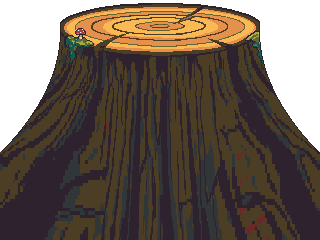
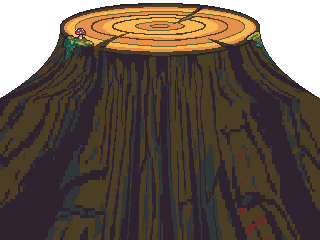
Art: keep the stump round - elliptical top ends, curved flare
Sean: the sides were too straight and lost the stump's circular look.
make_stump.py carves the top's ends onto a true ellipse and starts the
side flare at the ellipse's widest row with a stronger curve, so the round
top flows into a curving trunk base.

diff --git a/art/hand/make_stump.py b/art/hand/make_stump.py
@@ -24,8 +24,11 @@ OUT_H = 240
 BAND = (100, 144)  # lower trunk rows stretched down to OUT_H
 
 SIDE = 60  # px added each side; the screen shows ~108 game px either side of centre
-FLARE_Y0 = 30  # first row below the top rim where the sides start to slope out
-FLARE_K = 0.004  # edge moves out FLARE_K * (y - FLARE_Y0)^2 px
+# Top ellipse (source px): centre row, half-height, half-width. Its ends are carved round,
+# and the sides flare out from its widest row so the stump keeps its round look (Sean).
+TOP_CY, TOP_B, TOP_A = 27, 25, 100
+FLARE_Y0 = TOP_CY  # the flare starts at the ellipse's widest row (vertical tangent)
+FLARE_K = 0.012  # edge moves out FLARE_K * (y - FLARE_Y0)^2 px
 EDGE_BAND = 40  # outer px of each row stretched outward
 CRACK_BOX = (28, 28, 62, 62)  # where the crack runs off the top onto the bark
 CRACK = (0x96, 0x6C, 0x6C)
@@ -46,6 +49,18 @@ def fix_crack(img):
             else:
                 continue
             break
+
+
+def carve_top(img):
+    """Round the top's ends: clear pixels outside the top ellipse above its widest row."""
+    px = img.load()
+    cx = (img.width - 1) / 2
+    for y in range(TOP_CY):
+        t = (TOP_CY - y) / TOP_B
+        half = TOP_A * (1 - t * t) ** 0.5 if t < 1 else -1
+        for x in range(img.width):
+            if abs(x - cx) > half + 0.5:
+                px[x, y] = (0, 0, 0, 0)
 
 
 def extend_down(img):
@@ -103,6 +118,7 @@ def outline_sides(img):
 
 src = quantize(Image.open(SRC))
 fix_crack(src)
+carve_top(src)
 out = widen(extend_down(src))
 outline_sides(out)
 os.makedirs(os.path.dirname(OUT), exist_ok=True)
